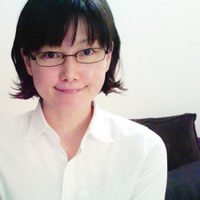
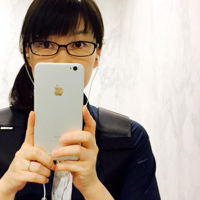
Modified Hori profile

diff --git a/index.html b/index.html
@@ -193,8 +193,8 @@
 			<p><img src="./img/photo_ogawa.jpg" height="100" width="100" alt="" class="img-circle"></p>
 		</div>
 		<div class="col-lg-6">
-			<h3>Takako Hori</h3>
-			<p>UI Designer</p>
+			<h3>Takako Horiuchi (Hori)</h3>
+			<p>UI Designer / <a href="https://twitter.com/horiuni">@horiuni</a></p>
 			<p><img src="./img/photo_hori.jpg" height="100" width="100" alt="" class="img-circle"></p>
 		</div>
 	</div>

diff --git a/jp/index.html b/jp/index.html
@@ -208,7 +208,7 @@
 		</div>
 		<div class="col-lg-6">
 			<h3>堀内 敬子 <small>Takako Horiuchi</small></h3>
-			<p>UIデザイナー</p>
+			<p>UI Designer / <a href="https://twitter.com/horiuni">@horiuni</a></p>
 			<p><img src="../img/photo_hori.jpg" height="100" width="100" alt="" class="img-circle"></p>
 		</div>
 	</div>
